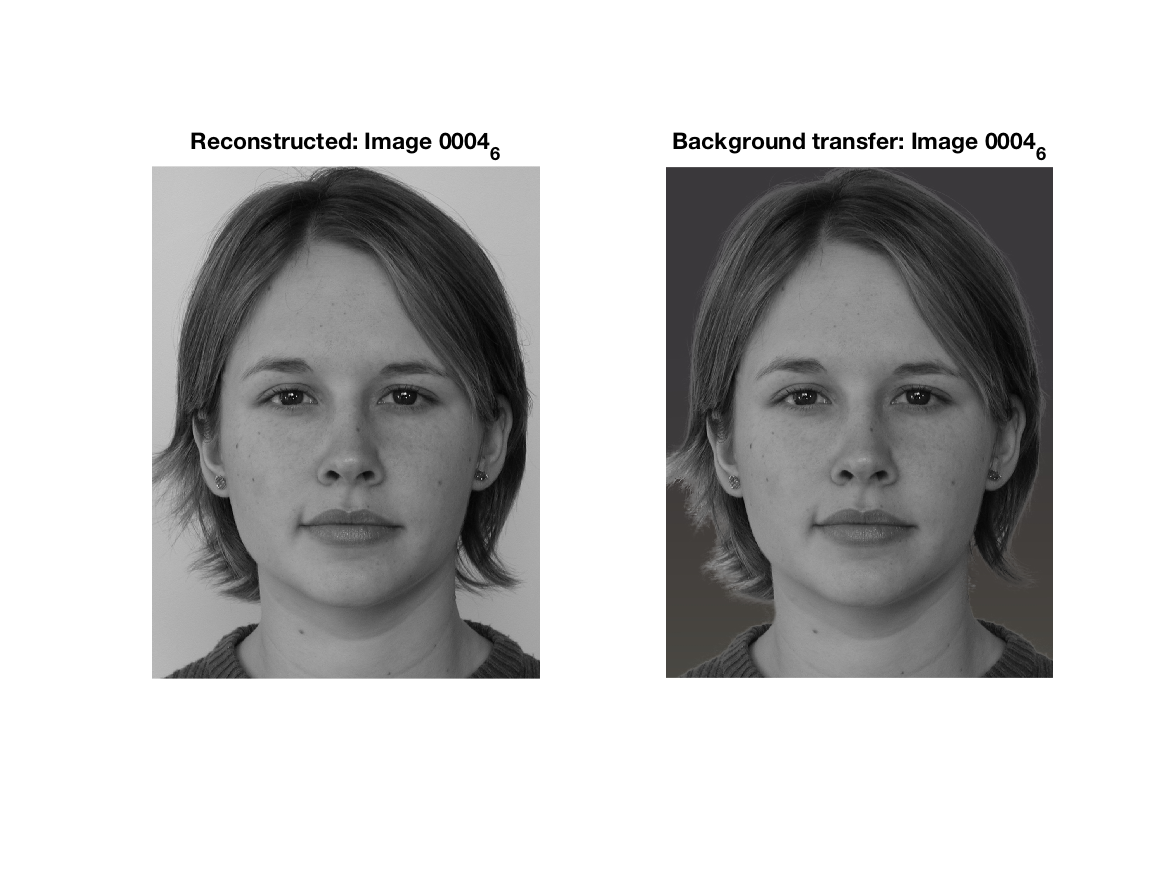
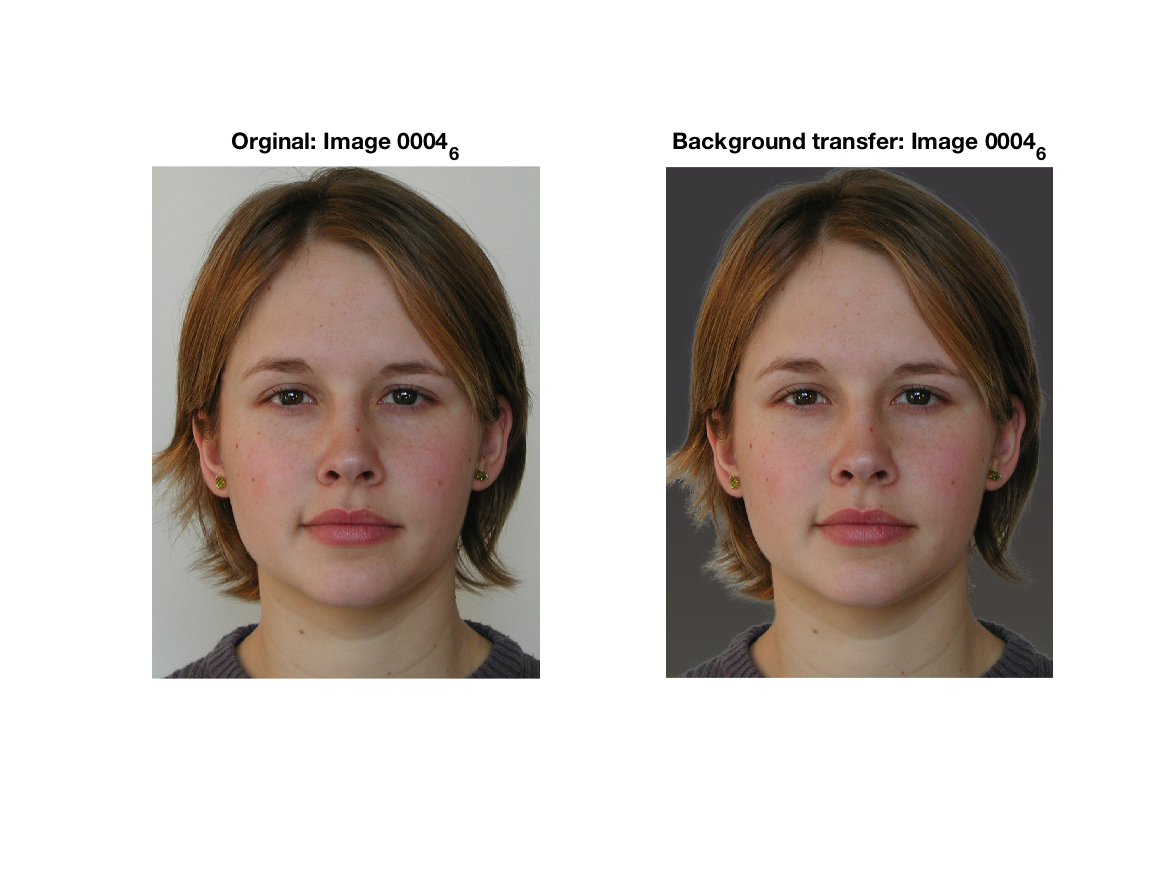
implemented all remaining subsections

Changed region(s): [[0.1234, 0.216, 0.4627, 0.8023], [0.5553, 0.216, 0.8946, 0.8023], [0.1542, 0.1543, 0.4319, 0.1851]]

diff --git a/HW1/code/HW1Q2.m b/HW1/code/HW1Q2.m
@@ -24,21 +24,52 @@ nLevel = 6;
 
 % Task 2 (a) - Laplacian Pyramids
 pyramids = laplacianPyramids(I, nLevel);
+figure;
+index = 1;
+
+subplot(3,3,[1,2,3]);
+imshow(I,[])
+title(['Original: Image ' ,image_name]);
+for k = 1:nLevel
+    pyramid = pyramids{k};
+    subplot(3,3,3 + index);
+    imshow(pyramid,[])
+    title(['Pyramid l=',num2str(index)]);
+    index = index + 1;
+end  
+
+% Save results
+output_name = strcat('img_', image_name, '_laplacian_pyramids');
+output_path = fullfile('output', output_name);
+print(output_path,'-dpng')
 
 % Task 2 (b) - Pyramid Reconstruction
 image = reconstructImage(pyramids);
 figure;
 subplot(1,2,1);
+imshow(I,[]);
+title(['Orginal: Image ' ,image_name]);
+subplot(1,2,2);
 imshow(image,[]);
 title(['Reconstructed: Image ' ,image_name]);
+
+% Save results
+output_name = strcat('img_', image_name, '_pyramid_reconstruction');
+output_path = fullfile('output', output_name);
+print(output_path,'-dpng')
 
 example_name = '6';
 path_E_bg = fullfile(path_background, strcat(example_name,'.jpg'));
 
 % Task 2 (c) - Background
+I = im2double(imread(path_I));
+figure;
+subplot(1,2,1);
+imshow(I,[]);
+title(['Orginal: Image ' ,image_name]);
 mask = im2double(imread(path_I_mask));
 background = im2double(imread(path_E_bg));
-image = maskBackground(image, mask, background);
+image = maskBackground(I, mask, background);
 subplot(1,2,2);
 imshow(image,[]);
 title(['Background transfer: Image ' ,image_name]);

diff --git a/HW1/code/hough/houghOverlay.m b/HW1/code/hough/houghOverlay.m
@@ -10,9 +10,9 @@ function [ ] = houghOverlay( fig_title,I,varargin )
 %              I          - The input image.
 %              threshold  - Sensitivity threshold, as a numeric scalar
 %                           or a 2-element vector. 
-%                           Ignores all edges that below than threshold. 
+%                           Ignores all edges below the threshold. 
 %                           Set an empty array ([]) to automatically 
-%                           choose the appropriate values automatically.
+%                           choose the appropriate values.
 %              sigma      - Standard deviation of the Gaussian filter, 
 %                           as a scalar. The default is sqrt(2)
 %
@@ -48,11 +48,15 @@ subplot(1,2,2);
 imshow(edges,[]);
 title([fig_title, ' - Canny Edges']);
 
+pause(0.2); % pause to avoid figure override
+
 figure;
 imshow(H,[],'XData',T,'YData',R,'InitialMagnification','fit');
 xlabel('\theta'), ylabel('\rho');
 axis on, axis normal;
 title([fig_title, ' - Hough Transform', 'on Canny Edges']);
+
+pause(0.2); % pause to avoid figure override
 
 % Task 1 - Voting
 figure;

diff --git a/HW1/code/HW1Q1.m b/HW1/code/HW1Q1.m
@@ -40,3 +40,15 @@ addpath('hough');
 
 I = imread('building.jpg');
 houghOverlay('Building.jpg',I);
+
+%% with more suitable parameters for Canny edge detector
+
+addpath('hough');
+I = im2double(imread('building.jpg'));
+
+% image median, adaptive lower and upper thresholds for edges
+image_median = double(median(I(:)));
+threshold = 0.15 * image_median;
+    
+I = imread('building.jpg');
+houghOverlay('Building.jpg',I, threshold);
